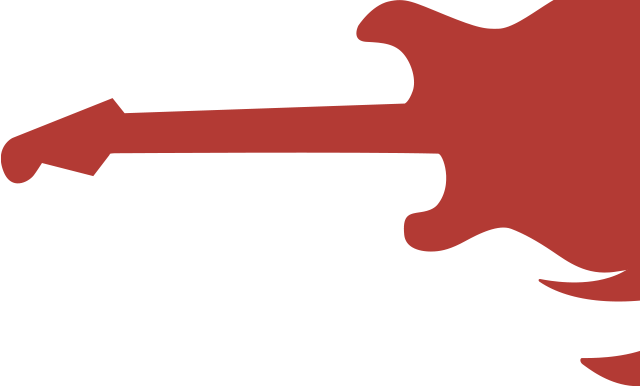
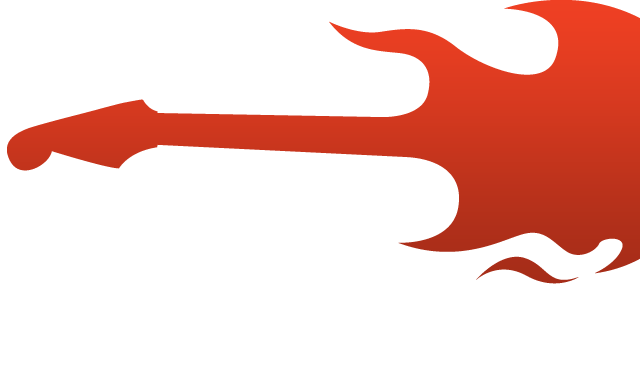
imagens novas e algumas fixes. Jquery trocado por jqmobi (10x mais rapido)

Changed region(s): [[0.0, 0.0, 1.0, 0.8083], [0.9062, 0.9016, 1.0, 1.0]]

diff --git a/platforms/android/assets/www/js/navigation.js b/platforms/android/assets/www/js/navigation.js
@@ -24,7 +24,7 @@ function changeContainers(page, title, subtitle){
     switch(page){
         case "#festivals":
             header_title_selector.removeClass('heading1').addClass('heading0');
-            header_title_selector.html('<img id="logo" alt="FestivAll" src="img/logo.png"> FestivAll');
+            header_title_selector.html('<img id="logo" alt="FestivAll" src="img/logo_title.png">');
             header_subtitle.empty();
             $('#header_link').unbind();
             $('#festivals_line_break').text(dictionary[localStorage['language']]['finished']);

diff --git a/platforms/android/assets/www/index.html b/platforms/android/assets/www/index.html
@@ -351,8 +351,8 @@
 
 
 <!-- JAVASCRIPT -->
-<!--script type="text/javascript" src="js/lib/jq.mobi.js"></script-->
-<script type="text/javascript" src="js/lib/jquery.min.js"></script>
+<script type="text/javascript" src="js/lib/jq.mobi.js"></script>
+<!--script type="text/javascript" src="js/lib/jquery.min.js"></script-->
 
 <script type="text/javascript" src="cordova.js"></script>
 <script type="text/javascript" src="js/lib/idangerous.swiper-2.1.js"></script>

diff --git a/platforms/android/assets/www/js/festivals.js b/platforms/android/assets/www/js/festivals.js
@@ -175,7 +175,7 @@ function appendCountryToFestivals(country_id){
 // Callback for the festivals query
 function queryFestivalsCountrySuccess(tx, results) {
     var country = results.rows.item(0);
-    console.log("FESTIVALS_COUNTRY FLAG: " + country.flag);
+    $('.festival_list .item').height($('.festival_list .item').width());
     $('#festivals_country_title span').text(country.name);
     $('#festivals_country_flag').attr('src', country.flag);
 }

diff --git a/platforms/android/assets/www/css/style.css b/platforms/android/assets/www/css/style.css
@@ -329,8 +329,9 @@ a {
 #logo {
     position: absolute;
     top: 50%;
-    left: 5px;
+    left: 25px;
     margin-top: -25px;
+    height: 85%;
 }
 .icon_menu {
     display: inline-block;
